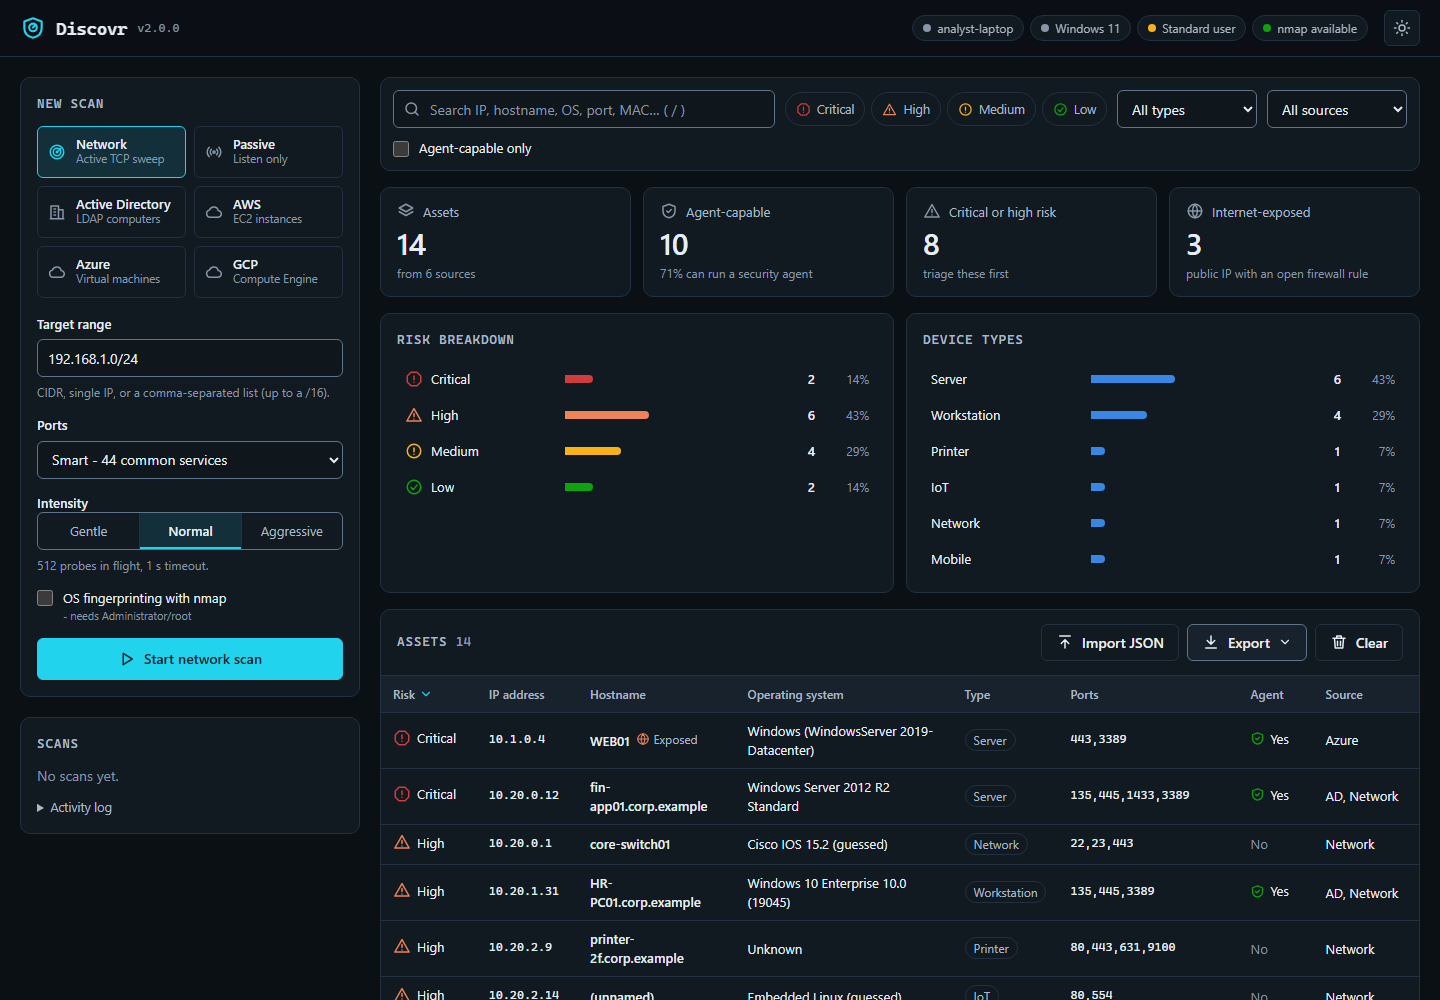
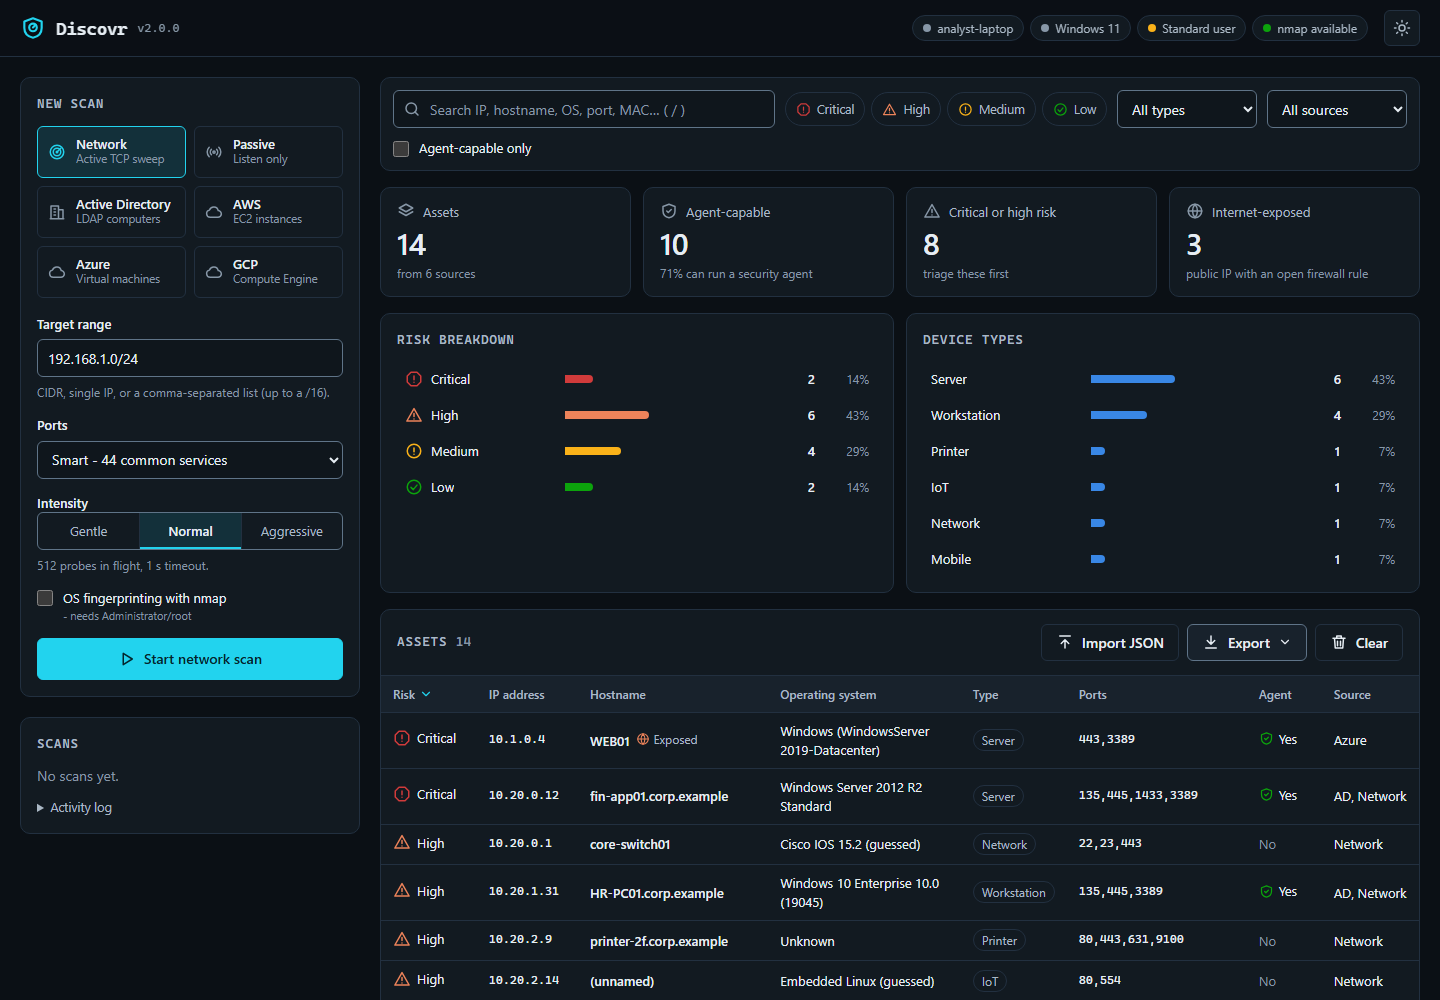
style(ui): keep hostnames on one line; refresh dashboard screenshot
Hostnames wrapped at hyphens ("fin-/app01...") because the cell used
overflow-wrap:anywhere. They now stay on one line; wide tables already
scroll inside their own container, so the page never scrolls sideways.

diff --git a/discovr/ui/app.css b/discovr/ui/app.css
@@ -382,7 +382,8 @@ table.assets { width: 100%; border-collapse: collapse; font-size: 13px; }
 .assets tbody tr:hover { background: var(--surface-2); }
 .assets .mono { white-space: nowrap; font-variant-numeric: tabular-nums; }
 .cell-risk { display: inline-flex; align-items: center; gap: 6px; white-space: nowrap; }
-.cell-host { border: 0; padding: 0; background: none; color: var(--text); font-weight: 600; text-align: left; overflow-wrap: anywhere; }
+/* Hostnames stay on one line ("fin-app01" must not split at the hyphen); wide tables scroll inside .table-wrap. */
+.cell-host { border: 0; padding: 0; background: none; color: var(--text); font-weight: 600; text-align: left; white-space: nowrap; }
 .cell-host:hover { color: var(--accent); text-decoration: underline; }
 .cell-os { max-width: 260px; }
 .cell-ports { max-width: 180px; overflow: hidden; text-overflow: ellipsis; }
